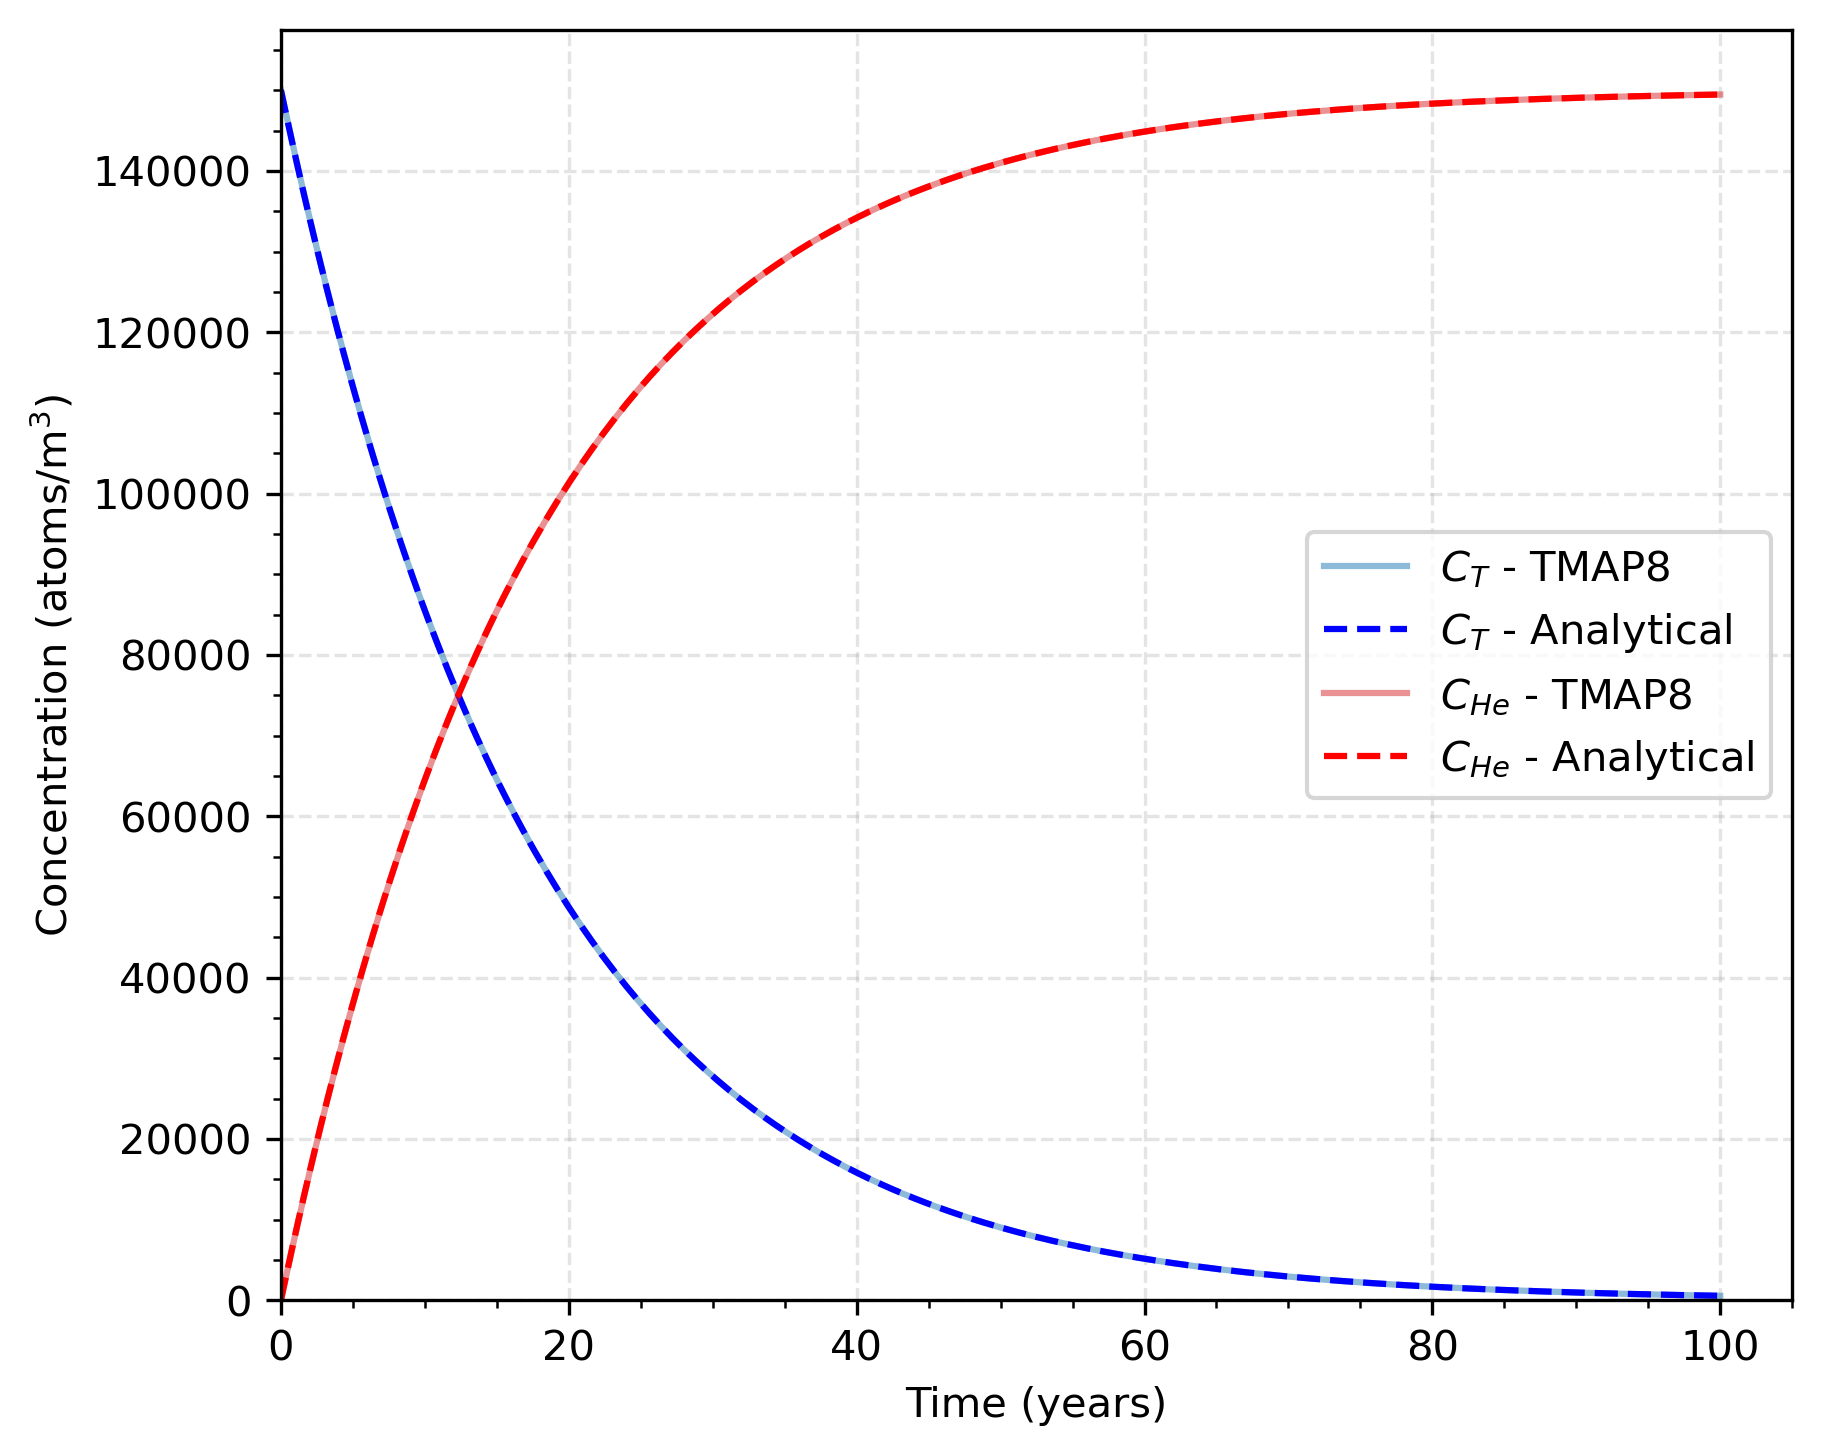
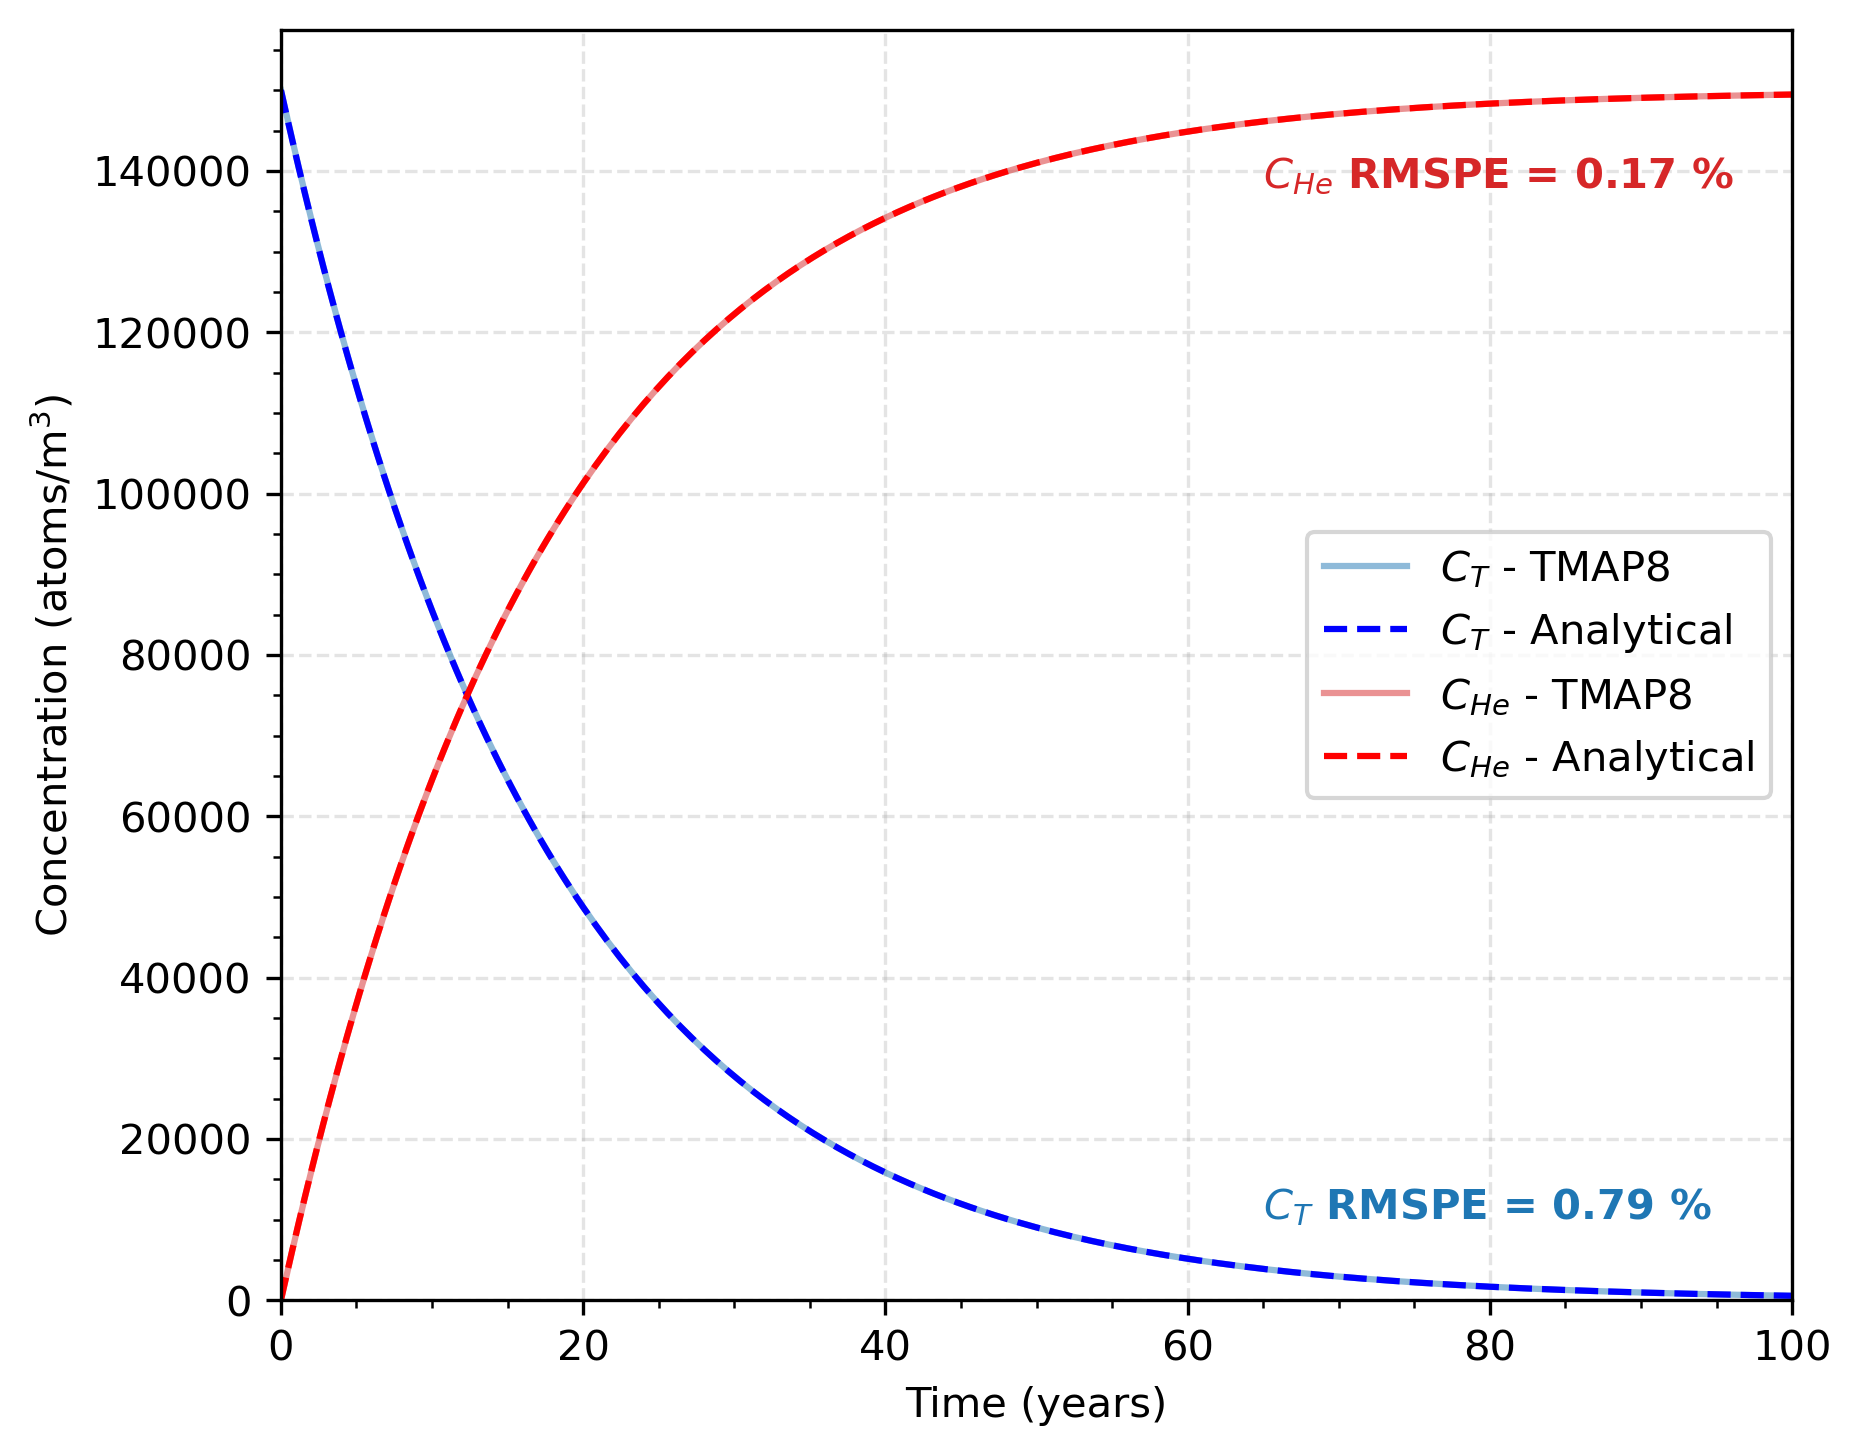
Add RMSPE calculation and documentation

diff --git a/test/tests/ver-1ja/comparison_ver-1ja.py b/test/tests/ver-1ja/comparison_ver-1ja.py
@@ -37,6 +37,13 @@ ax.plot(tmap8_time_years,tmap8_tritium,label=r"$C_T$ - TMAP8",c='tab:blue', alph
 ax.plot(tmap8_time_years,analytical_tritium,label=r"$C_T$ - Analytical",c='b', linestyle='--')
 ax.plot(tmap8_time_years,tmap8_helium,label=r"$C_{He}$ - TMAP8",c='tab:red', alpha=0.5)
 ax.plot(tmap8_time_years,analytical_helium,label=r"$C_{He}$ - Analytical",c='r', linestyle='--')
+# Root Mean Square Percentage Error calculations
+RMSE_Ct = np.linalg.norm(tmap8_tritium-analytical_tritium)
+err_percent_Ct = RMSE_Ct*100/np.mean(analytical_tritium)
+ax.text(65, 1e4, '$C_T$ RMSPE = %.2f '%err_percent_Ct+'%',fontweight='bold',color = 'tab:blue')
+RMSE_CHe = np.linalg.norm(tmap8_helium-analytical_helium)
+err_percent_CHe = RMSE_CHe*100/np.mean(analytical_helium)
+ax.text(65, 13.8e4, '$C_{He}$ RMSPE = %.2f '%err_percent_CHe+'%',fontweight='bold',color = 'tab:red')
 ax.set_xlabel(u'Time (years)')
 ax.set_ylabel(r"Concentration (atoms/m$^3$)")
 ax.legend(loc="best")

diff --git a/doc/content/verification_and_validation/ver-1ja.md b/doc/content/verification_and_validation/ver-1ja.md
@@ -51,12 +51,13 @@ Applying a mass balance over the system, the time evolution of helium concentrat
 
 [ver-1ja_results] shows the TMAP8 predictions and how they compare to the analytical solution
 for the decay of tritium and associated growth of $^3\text{He}$ in a diffusion segment.
-The TMAP8 predictions match the analytical solution, with root mean square percentage errors (RMSPE) of * and * for the $C_T$ and $C_{He}$ concentration curves respectively.
+The TMAP8 predictions match the analytical solution, with root mean square percentage errors
+(RMSPE) of 0.79% and 0.17% for the $C_T$ and $C_{He}$ concentration curves respectively.
 
 !media figures/ver-1ja_comparison_analytical.png
     style=width:50%;margin-bottom:2%;margin-left:auto;margin-right:auto
     id=ver-1ja_results
-    caption= Comparison of TMAP8 predictions against the analytical solution for the decay of tritium and associated growth of $^3\text{He}$ in a diffusion segment.
+    caption= Comparison of TMAP8 predictions against the analytical solution for the decay of tritium and associated growth of $^3\text{He}$ in a diffusion segment. The RMSPE is very low for both species.
 
 ### Input file
 
